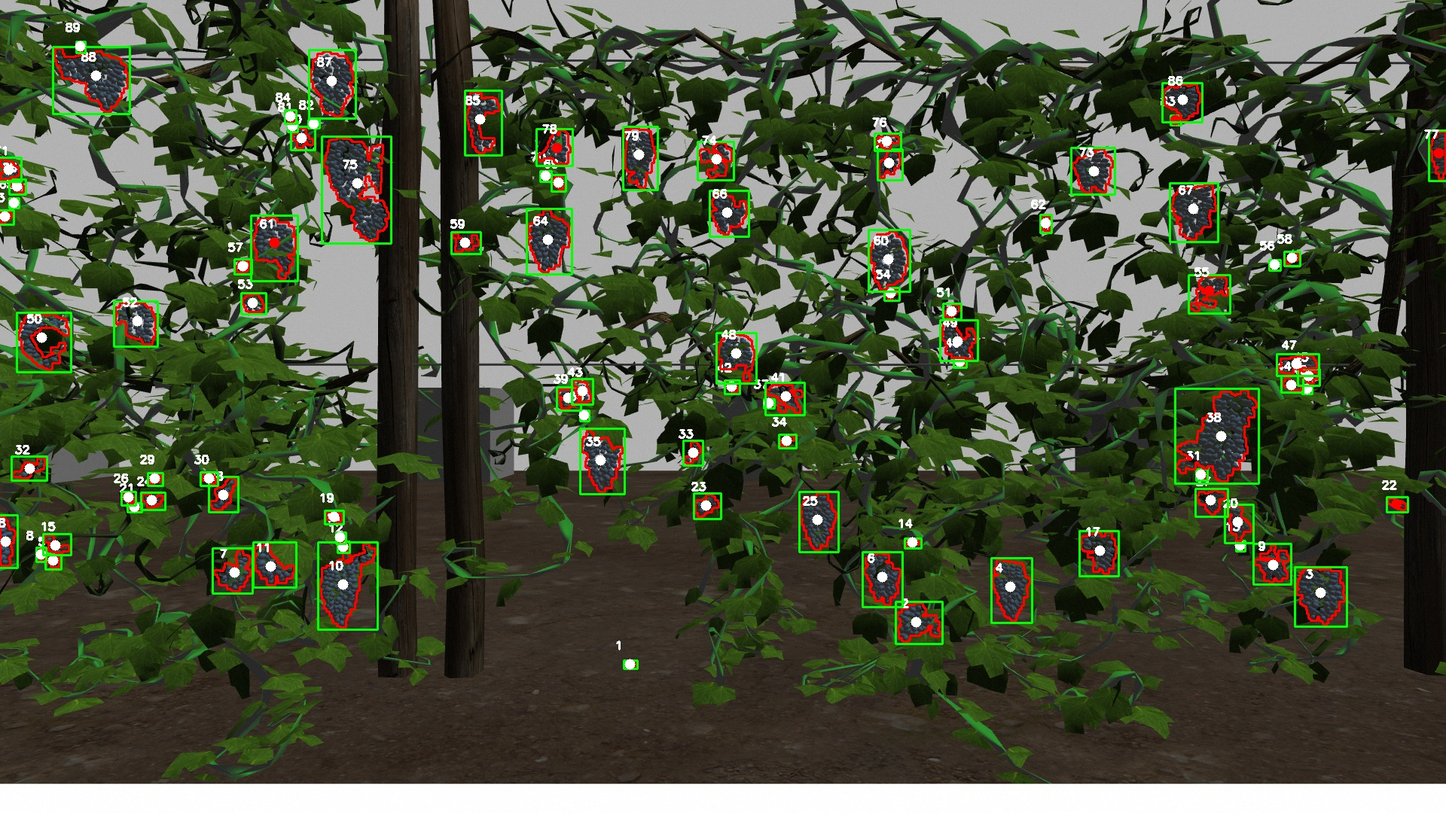
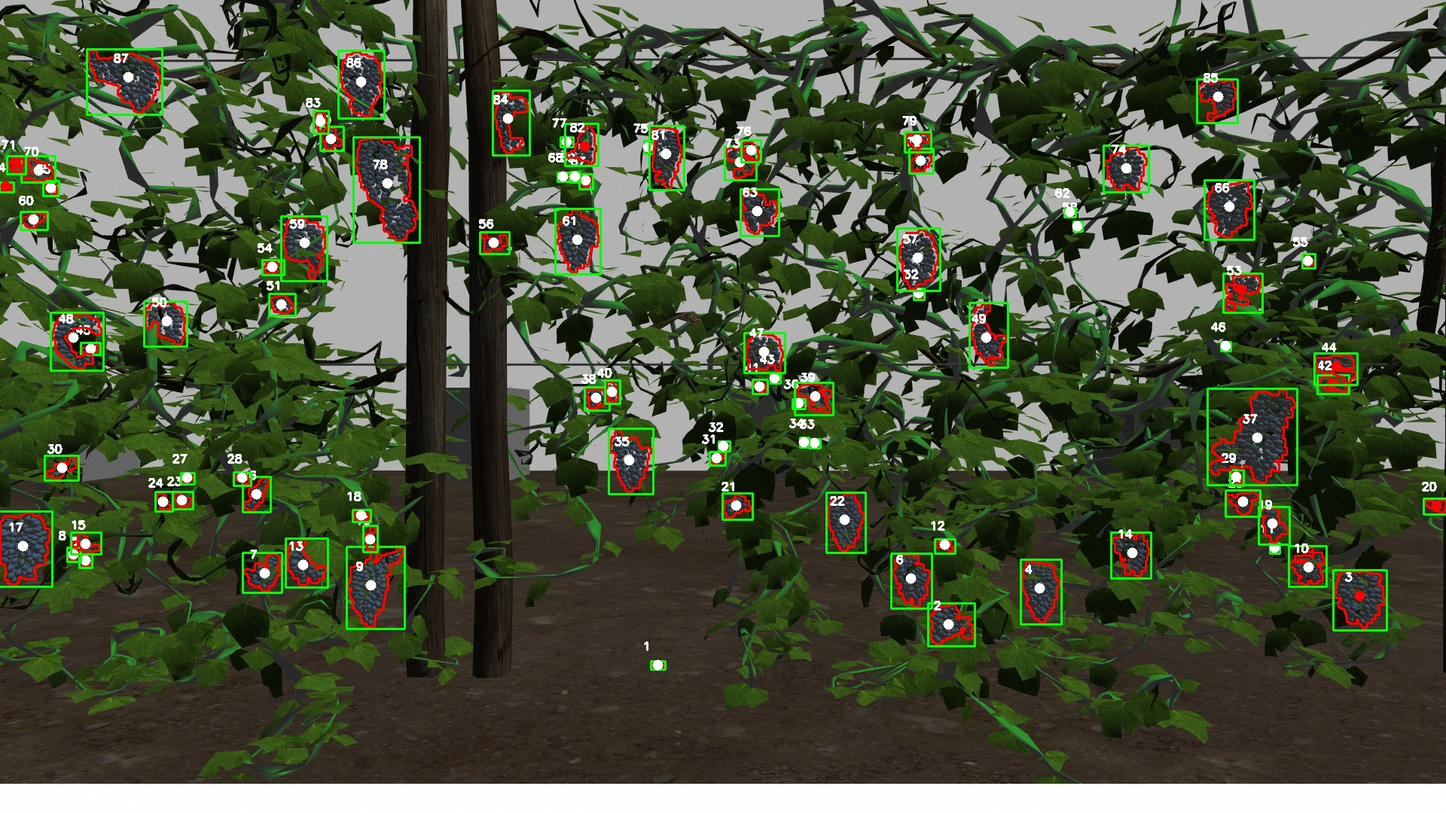
Comments and aspect ratio and grapevine length

diff --git a/andy_ass1/scripts/camera.py b/andy_ass1/scripts/camera.py
@@ -50,7 +50,9 @@ class findBunches:
 
         # 1920 is width of HD colour, 512 is SD depth width
         # 84.1 and 70.0 taken from kinect2-gazebo.xacro file
-        self.color2depth_aspect = (84.1/1920) / (70.0/512)
+        # NOTE TODO the 70.0 figure is disputed and should be 69.x or something
+        # https://www.ncbi.nlm.nih.gov/pmc/articles/PMC9002889/#:~:text=The%20Kinect%20v2%20depth%20sensor,4.5%20m%20range%20%5B13%5D.
+        self.color2depth_aspect = (84.1/1920) / (69/512)
 
         # A list of x,y,z for each bunch detected
         self.bunches = []
@@ -62,16 +64,20 @@ class findBunches:
         self.tf_listener = tf.TransformListener()
     
         sub_image = rospy.Subscriber("/thorvald_001/kinect2_" + self.camera + "_camera/hd/image_color_rect", Image, self.image_callback)
-        self.camera_info_sub = rospy.Subscriber('/thorvald_001/kinect2_' + camera + '_camera/hd/camera_info', CameraInfo, self.camera_info_callback)
-        rospy.Subscriber("/thorvald_001/kinect2_" + camera + "_sensor/sd/image_depth_rect", Image, self.image_depth_callback)
+        self.camera_info_sub = rospy.Subscriber('/thorvald_001/kinect2_' + self.camera + '_camera/hd/camera_info', CameraInfo, self.camera_info_callback)
+        rospy.Subscriber("/thorvald_001/kinect2_" + self.camera + "_sensor/sd/image_depth_rect", Image, self.image_depth_callback)
 
         rospy.Subscriber("/thorvald_001/moving", String, self.callback_moving)
         rospy.Subscriber("/thorvald_001/row", String, self.callback_row)
+
+        # Go_grapevine.py needs to know when camera image processing has finished 
         self.move = rospy.Publisher('/thorvald_001/camera_done', String, queue_size=1, latch=True)
+
+        # Row widths used within main_display.py 
         self.widths = rospy.Publisher('/thorvald_001/row_widths', String, queue_size=10, latch=True)
         
         # Publish a pointcloud - NOTE - intensities are own format and not compatible with RVIZ
-        # but these get changed and made compatible by collate_point.py ready for RVIZ.
+        # but these get changed and made compatible by point_colation.py ready for RVIZ.
         self.object_location_pub2 = rospy.Publisher('/thorvald_001/grapes_'+camera, PointCloud, queue_size=1)
 
     def callback_moving(self, data):
@@ -166,7 +172,7 @@ class findBunches:
                 cv2.circle(self.orig_image, (cX, cY), 7, (255, 255, 255), -1)
                 cv2.putText(self.orig_image, str(self.num_bunches), (cX - 20, cY - 20), cv2.FONT_HERSHEY_SIMPLEX, 0.5, (255, 255, 255), 2)
                 
-                
+                # Rather than use a single pixel point a 7 x 7 area is sampled for depth and to reduce x,y positional noise
                 aX = []
                 aY = []
                 aZ = []
@@ -176,7 +182,6 @@ class findBunches:
                         # The depth array is smaller than the original colour image
                         depth_coords = (self.image_depth.shape[0] / 2 + ((cY+v[0]) - self.orig_image.shape[0] / 2) * self.color2depth_aspect, 
                             self.image_depth.shape[1] / 2 + ((cX+v[1]) - self.orig_image.shape[1] / 2) * self.color2depth_aspect)
-
 
                         # get the depth reading at the centroid location
                         depth_value = self.image_depth[int(depth_coords[0]), int(depth_coords[1])] # you might need to do some boundary checking first!
@@ -189,7 +194,9 @@ class findBunches:
                         aY.append(camera_coords[1])
                         aZ.append(camera_coords[2])
 
-                    print("deptg")
+                    ##################################################################################################
+                    # EXPERIMENTING!!!                                                                               #
+                    ##################################################################################################
                     # any depth that is more than 0.2m away from average - delete
                     i = 0
                     while i < len(aZ):
@@ -221,12 +228,15 @@ class findBunches:
                         zz += v[2]
                         print("good", v[0], v[1], v[2])
                     print()
+                    ##################################################################################################
+
 
                     #define a point in camera coordinates
                     object_location = PoseStamped()
-                    object_location.header.stamp = self.stampDepth
-                    object_location.header.frame_id = self.camera_model.tfFrame() #"thorvald_001/kinect2_" + self.camera + "_rgb_optical_frame"
+                    object_location.header.stamp = self.stampDepth # Makes no difference if included - TODO why?
+                    object_location.header.frame_id = self.camera_model.tfFrame() 
                     object_location.pose.orientation.w = 1
+                    # Produce an average location
                     object_location.pose.position.x = xx / tt
                     object_location.pose.position.y = yy / tt
                     object_location.pose.position.z = zz / tt
@@ -235,7 +245,8 @@ class findBunches:
                     p_camera = self.tf_listener.transformPose('map', object_location)
 
                     # Depth can get confused by blocks / objects close to camera
-                    xL = p_camera.pose.position.y < -6 and p_camera.pose.position.y > -8.5
+                    # NOTE TODO this should be changed as distance away from camera not a map position
+                    xL = p_camera.pose.position.y < -6.5 and p_camera.pose.position.y > -8.5
 
                     if "nan" not in str(p_camera.pose) and xL:
                         p = Point32()
@@ -243,6 +254,8 @@ class findBunches:
                         p.x = p_camera.pose.position.x
                         p.y = p_camera.pose.position.y
                         p.z = p_camera.pose.position.z
+
+                        # Keep track of the extremeties of bunches so as to not double count
                         mini = p.x < rMin
                         maxi = p.x > rMax 
                         if mini or maxi:
@@ -252,6 +265,8 @@ class findBunches:
                             if maxi:
                                 if p.x > thisMax:
                                     thisMax = p.x 
+
+                            # this bunch is outside of what has previously been seen so append it to the pointcloud
                             pc.points.append(p)
                             ch.name = "intensity"
                             ch.values = (area , area , area)
@@ -262,8 +277,12 @@ class findBunches:
                 except Exception as e:
                     print("exception", e, "bunch")
                     cv2.circle(self.orig_image, (cX, cY), 7, (0, 0, 255), -1)
+
         # Publish the point cloud
         self.object_location_pub2.publish(pc)
+
+        # The next image will only count bunches not seen before BUT allow some over lap
+        # Hopefully double counting is picked up within point_colation.py
         if thisMin < self.rowMinMax[self.row]['min']:
             self.rowMinMax[self.row]['min'] = thisMin + 0.3
         if thisMax > self.rowMinMax[self.row]['max']:

diff --git a/andy_ass1/scripts/main_display.py b/andy_ass1/scripts/main_display.py
@@ -174,6 +174,8 @@ class Display:
                 w = abs(widths1) - abs(widths2)
             elif  widths1 < 0 and widths2 >= 0:
                 w = abs(widths1) + abs(widths2)
+            elif widths1 > 0 and width2 > 0:
+                w = abs(widths1) + abs(widths2)
             gWidth1 = "Grapevine length: " + str(round(w , 2)) + " m"
  
             bunchMetre = "Average bunches per metre: " + str(round(self.numberBunches / (w)))

diff --git a/README.md b/README.md
@@ -18,6 +18,6 @@ This solution uses a pre-made map of the environment along with a topological ma
 - Real time adding of **nodes and edges** to a topological map using script **add_nodes.py** while a simulation is running. Uses 'topological_map_manager2/add_topological_node' and '/topological_map_manager2/add_edges_between_nodes' as service calls. This can be seen within the solution as 20 seconds into launching extra nodes and edges appear.
 - **Action library** setting navigation goals with GotoNodeAction within script **go_grapevine.py**. This script controls all navigation and publishes '/thorvald_001/row', '/thorvald_001/state' and '/thorvald_001/moving' for other scripts (camera.py and main_display.py) to know when and what is going on. This directly controls when the robot stops and tells the camera when and where to take images. It also subscribes to the topic '/thorvald_001/camera_done' so as to wait until image processing is complete and the next part of the grapevine can be imaged.
 - **Pointclouds** within script **point_colation.py**. Receives point clouds on topics '/thorvald_001/grapes_left', '/thorvald_001/grapes_right' and '/thorvald_001/grapes_front' for all 3 cameras (there can be 3 instances of camera.py running). The 'upto' 3 pointclouds are combined into one published pointcloud '/thorvald_001/grape_bunches' for displaying within RVIZ. This pointcloud uses intensity to show different grapebunch size. With noisy (x,y,z) map positions this script will aggrigate multiple bunches into 1 bunch if a bunch location is within 0.2m cubed of another bunch. This is a form of 'binning' and acts as a noise filter.
-- **image**, **CameraInfo**, **OpenCV**, **FindContours**, **Moments**, **ContourArea**, **projectPixelTo3dRay**, **Image Scaling** and **tf_listener** implemented within script **camera.py**. This script detects grapebunches, saves images and publishes pointclouds of bunch positions. and takes launch file parameters to configure which camera will be used using **rospy.get_param()**.
+- **Image**, **CameraInfo**, **OpenCV**, **FindContours**, **Moments**, **ContourArea**, **projectPixelTo3dRay**, **Image Scaling** and **tf_listener** implemented within script **camera.py**. This script detects grapebunches, saves images and publishes pointclouds of bunch positions. and takes launch file parameters to configure which camera will be used using **rospy.get_param()**.
 - **OpenCV** image creation in the form of a display screen within script **main_display.py**. This script feedsback to the user what is going on and final results. 
 
